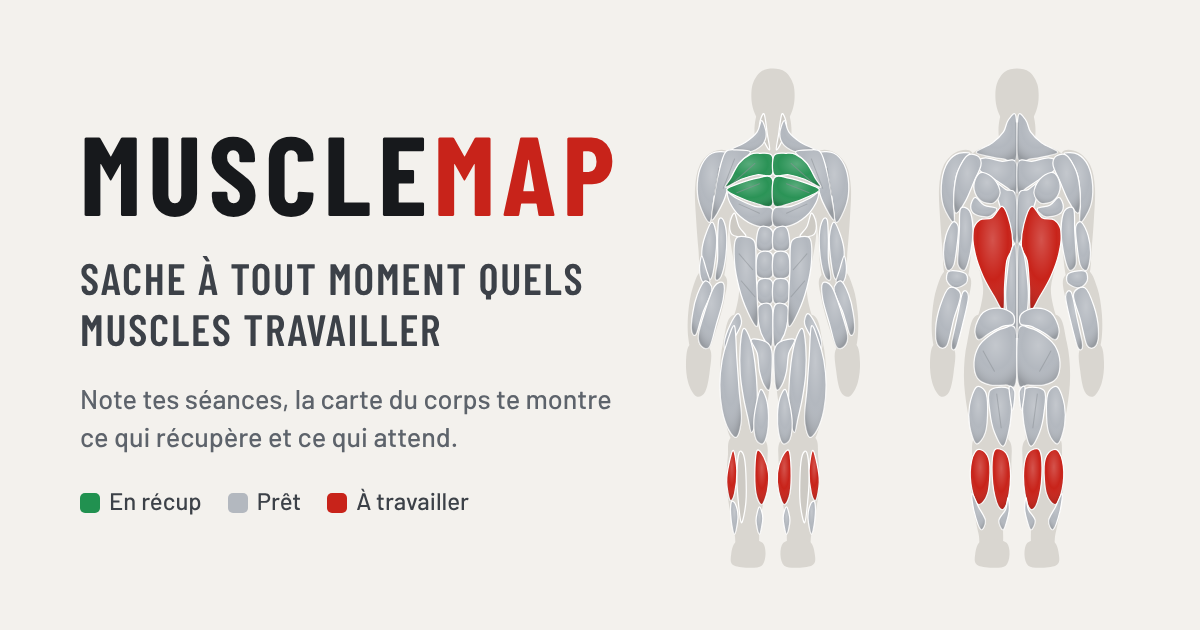
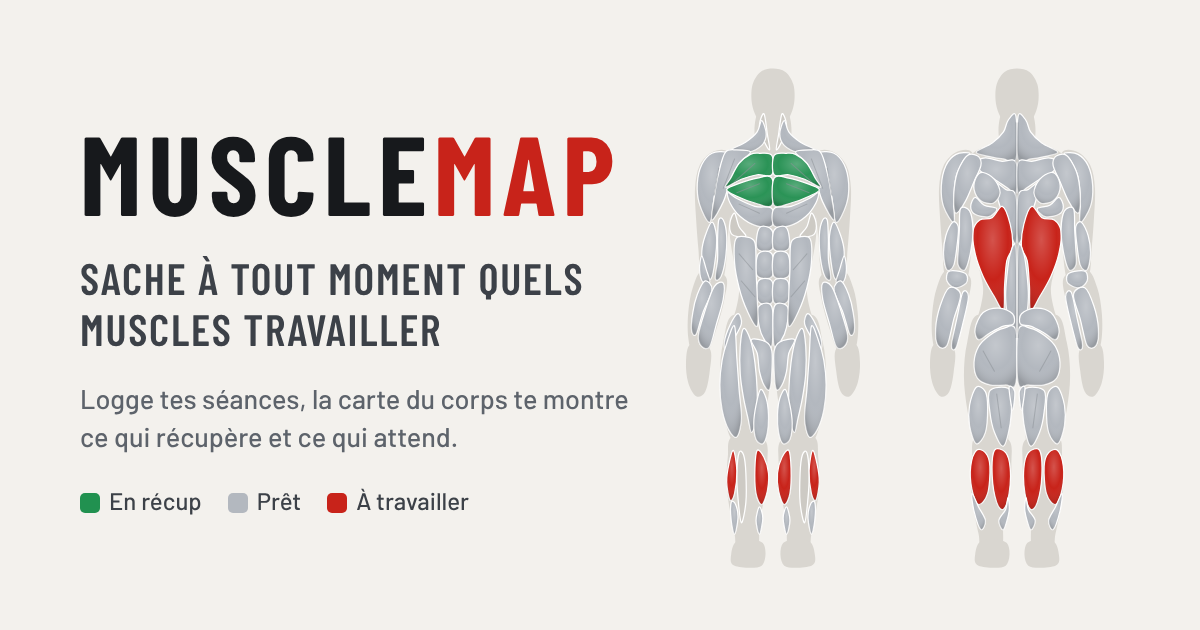
Vocabulaire : « logger » au lieu de « noter » (bouton « Logger ces muscles », accueil, carte Nouveautés, description et image de partage), v2.15.2
Claude-Session: https://claude.ai/code/session_012QJFACLZ2WxoKYMWs4vK1Z

Changed region(s): [[0.0617, 0.6032, 0.5242, 0.6635]]

diff --git a/js/i18n.js b/js/i18n.js
@@ -66,7 +66,7 @@ const S = {
     liveSaved: 'Validé : {x} · séance en cours', liveUpdated: 'Séance mise à jour', liveDone: 'Séance terminée',
     bubbleOff: 'décoché',
     newsEyebrow: 'Nouveau', newsTitle: 'Nouveautés de la version {v}', newsTry: 'Essayer la recherche', newsOk: 'OK, compris',
-    news1Title: 'Valide au fur et à mesure', news1Text: 'Note tes muscles après chaque exercice : tout reste dans la même séance, qui se termine seule 1 h après le dernier muscle validé.',
+    news1Title: 'Valide au fur et à mesure', news1Text: 'Logge tes muscles après chaque exercice : tout reste dans la même séance, qui se termine seule 1 h après le dernier muscle validé.',
     news2Title: 'Le nom du muscle touché', news2Text: 'Pendant la saisie, une bulle affiche le nom de ce que tu touches.',
     news3Title: 'Quels muscles pour quel exercice ?', news3Text: 'L’onglet Muscles devient Explorer : cherche « dips » ou « squat » parmi 189 exercices pour voir les muscles travaillés.',
 
@@ -81,7 +81,7 @@ const S = {
     basics: 'LES BASES', noResult: 'Aucun muscle ni exercice ne correspond.',
     exercises: 'Exercices', resMuscles: 'Muscles', exBrowse: 'Tous les exercices', exBrowseSub: 'Avec et sans matériel · {n} exercices',
     exPrimary: 'Muscles principaux', exPrimaryNote: 'Seuls les muscles qui font l’essentiel de l’effort sont indiqués, pas ceux qui aident ou stabilisent.',
-    exLog: 'Noter ces muscles', exSeeAll: 'Voir les {n} exercices', exFor: 'Exercices · {g}', exAllEq: 'Tout le matériel',
+    exLog: 'Logger ces muscles', exSeeAll: 'Voir les {n} exercices', exFor: 'Exercices · {g}', exAllEq: 'Tout le matériel',
     exGroupSec: 'Exercices', exNone: 'Aucun exercice avec ce matériel.',
     role: 'Rôle', exercises: 'Exercices', track: 'Suivre ce muscle',
     targetThese: 'Travailler {x}', targetThem: 'les muscles en retard', recordGroup: 'Ajouter à une séance',
@@ -113,7 +113,7 @@ const S = {
     trackGroup: 'Suivre tout le groupe musculaire {g}',
 
     onbWelcome: 'Bienvenue', onbWelcomeTitle: 'Ta carte musculaire',
-    onbWelcomeText: 'À chaque séance, note les muscles travaillés. MuscleMap te montre ensuite ceux qui récupèrent, ceux qui sont prêts et ceux à travailler en priorité.',
+    onbWelcomeText: 'À chaque séance, logge les muscles travaillés. MuscleMap te montre ensuite ceux qui récupèrent, ceux qui sont prêts et ceux à travailler en priorité.',
     onbTrackTitle: 'Quels muscles veux-tu suivre ?',
     onbTrackText: 'Tout est coché par défaut. Décoche ceux que tu ne travailles jamais : ils ne seront jamais « à travailler ». Tu pourras changer ça dans Réglages.',
     onbHowTitle: 'Comment lire la carte',

diff --git a/index.html b/index.html
@@ -14,11 +14,11 @@
 <link rel="preload" href="fonts/barlow-latin-400-normal.woff2" as="font" type="font/woff2" crossorigin>
 <link rel="preload" href="fonts/barlow-condensed-latin-700-normal.woff2" as="font" type="font/woff2" crossorigin>
 <title>MuscleMap</title>
-<meta name="description" content="Sache à tout moment quels muscles travailler : note tes séances, la carte du corps te montre ce qui récupère et ce qui attend. Gratuit, sans serveur.">
+<meta name="description" content="Sache à tout moment quels muscles travailler : logge tes séances, la carte du corps te montre ce qui récupère et ce qui attend. Gratuit, sans serveur.">
 <meta property="og:type" content="website">
 <meta property="og:site_name" content="MuscleMap">
 <meta property="og:title" content="MuscleMap — Sache à tout moment quels muscles travailler">
-<meta property="og:description" content="Note tes séances : la carte du corps te montre ce qui récupère et ce qui attend. Tes données restent dans ton Google Drive ou OneDrive.">
+<meta property="og:description" content="Logge tes séances : la carte du corps te montre ce qui récupère et ce qui attend. Tes données restent dans ton Google Drive ou OneDrive.">
 <meta property="og:url" content="https://flepr.github.io/musclemap/">
 <meta property="og:image" content="https://flepr.github.io/musclemap/og.png">
 <meta property="og:image:type" content="image/png">

diff --git a/js/app.js b/js/app.js
@@ -10,7 +10,7 @@ import { backupCard, startBackupReminders, backupSeen } from './backup.js';
 import { trackOpen, trackSession, trackEvent, statsConfigured, statsOn, setStats, migrateStatsChoice } from './stats.js';
 import { isStandalone, guideHTML, installCard, startReminders, stopReminders, markSeen, promptInstall, onInstallChange, appUrl, tx, inAppBrowser, hostApp, intentUrl, isAndroid } from './install.js';
 
-const VERSION = '2.15.1';
+const VERSION = '2.15.2';
 /* Carte « Nouveautés » : montrée une fois aux personnes déjà inscrites (pas aux nouvelles, qui découvrent tout
    à l'accueil). Fermée = réglage synchronisé, elle ne revient sur aucun appareil. Changer NEWS pour en publier une autre. */
 const NEWS = '2.15';

diff --git a/sw.js b/sw.js
@@ -3,7 +3,7 @@
    Stratégie « réseau d'abord » : en ligne, on sert toujours la dernière version
    publiée (et on met le cache à jour) ; hors ligne, on sert la copie en cache.
    Les appels Microsoft et Google (connexion, OneDrive, Google Drive) et les statistiques (Umami) ne passent jamais par le cache. */
-const CACHE = 'musclemap-v24';
+const CACHE = 'musclemap-v25';
 const ASSETS = [
   './', './manifest.json', './icon-180.png', './icon-192.png', './icon-512.png',
   './css/app.css', './js/app.js', './js/data.js', './js/i18n.js', './js/store.js', './js/logic.js', './js/body.js', './js/sync.js', './js/install.js', './js/backup.js', './js/stats.js', './js/exercises.js',

diff --git a/README.md b/README.md
@@ -1,6 +1,6 @@
 # MuscleMap
 
-Application web (PWA) de suivi des séances de musculation : à chaque séance on note les muscles travaillés, et la carte du corps montre ceux qui récupèrent, ceux qui sont prêts et ceux à cibler en priorité.
+Application web (PWA) de suivi des séances de musculation : à chaque séance on logge les muscles travaillés, et la carte du corps montre ceux qui récupèrent, ceux qui sont prêts et ceux à cibler en priorité.
 
 En ligne : https://flepr.github.io/musclemap/
 
